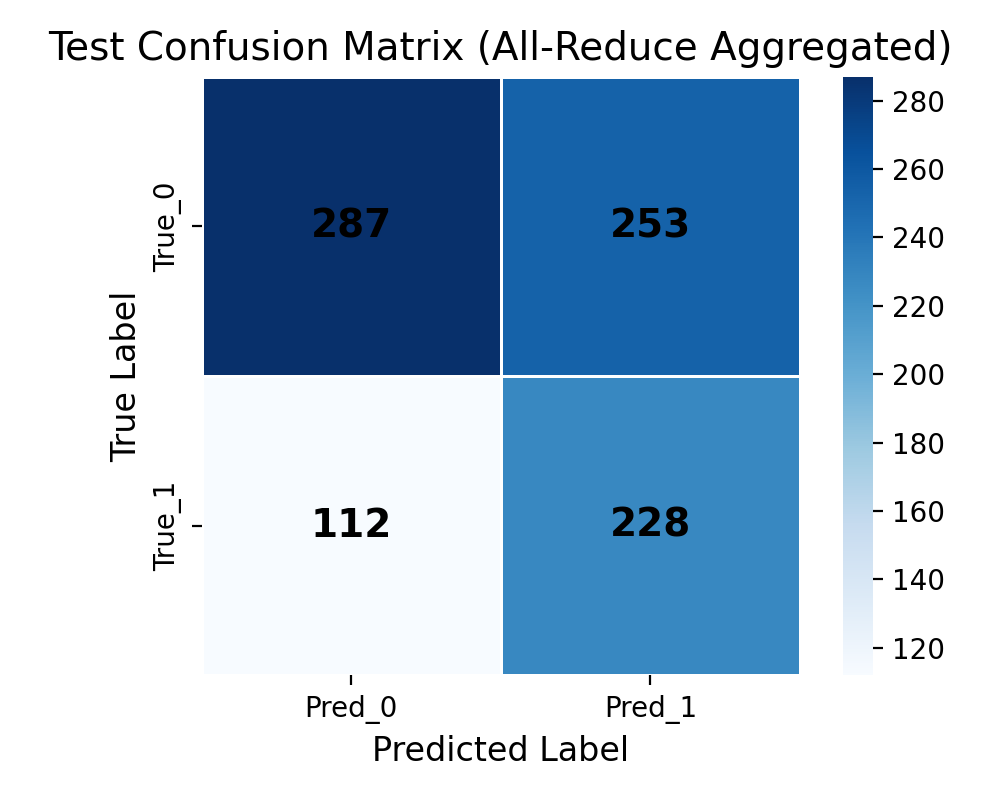
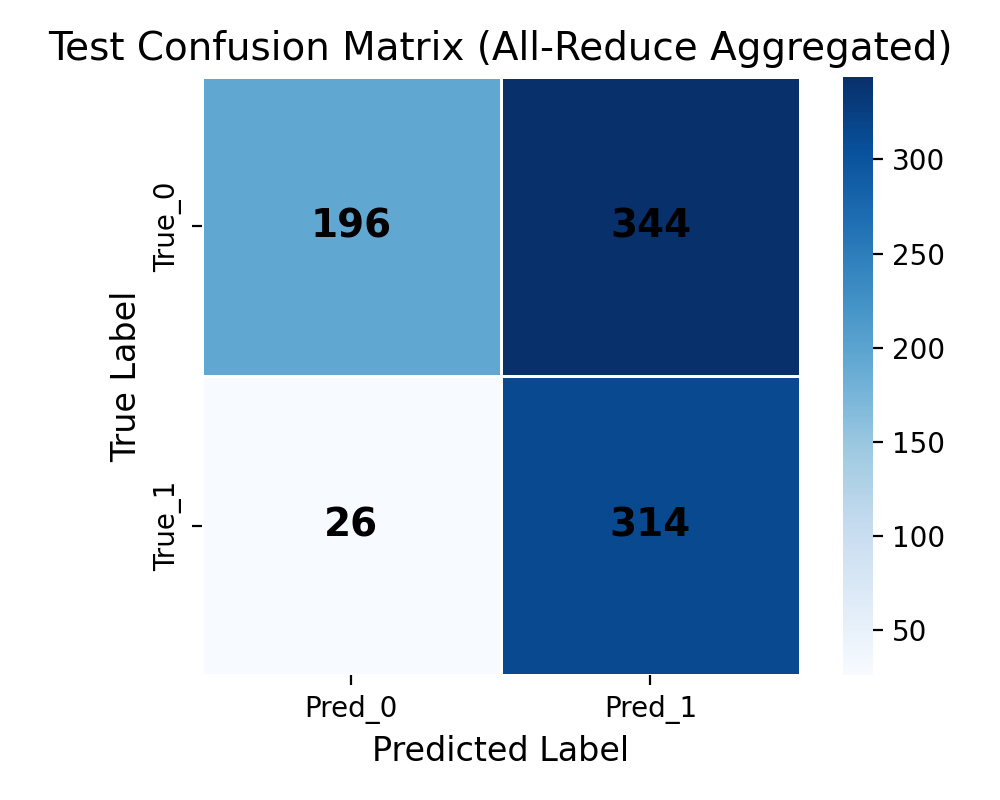
best

diff --git a/experiment_2/fine_tuning/fine_tuning.py b/experiment_2/fine_tuning/fine_tuning.py
@@ -35,9 +35,10 @@ CSV_PATH = "../data/learning_data.csv"   # 単一CSV（text,label 列）
 OUTPUT_DIR = "./result"
 
 SEED = 128
+#BATCH_SIZE = 16 (best)
+BATCH_SIZE=8
 MAX_LENGTH = 512
-BATCH_SIZE = 16                # 実効は × GPU数（DDP）
-LR = 1e-6
+LR = 1e-5
 NUM_EPOCHS = 15
 USE_FP16 = True                # Quadro想定でfp16
 VAL_RATIO = 0.1                # validation 割合（残りから層化分割）
@@ -205,7 +206,7 @@ def distributed_test_eval_and_save(
     test_ds,
     tokenizer,
     output_dir: str,
-    per_device_batch_size: int = 32,
+    per_device_batch_size: int = BATCH_SIZE,
     use_fp16: bool = True,
 ):
     """
@@ -376,7 +377,8 @@ def main():
         learning_rate=LR,
         lr_scheduler_type="cosine",
         warmup_ratio=0.08,
-        weight_decay=0.01,
+        #weight_decay=0.001,(M)
+        weight_decay=0.003,
         logging_steps=LOGGING_STEPS,
         eval_strategy="steps",      
         eval_steps=EVAL_STEPS,
